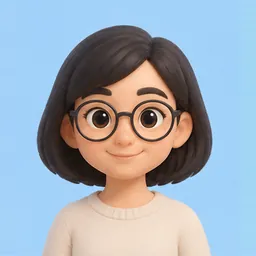
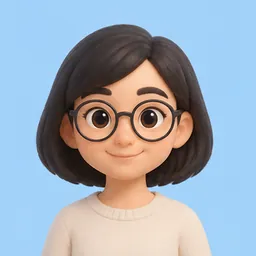
我的 · 更换头像 QA：头像左右补边色跟底色一致（去掉 a7 等边缘色带）；点头像 / 上传时弹窗不再整屏闪
- 头像图：原来左右各补 24px 的底色取自格子最边上一列（跟相邻格子混色），a7 小熊猫左侧有一道灰绿竖带，a2 / a4 / a6 / a8 也偏色；改成取格子内侧底色中位数，并去掉格子边缘 2px 混色后重切 a1~a8.webp（256×256，3.8–5.3 KB）
- Figma 先改：02 切图 slice/avatar/a1~a8（434:446132…434:446160）底色改成同样的颜色，下方色值标注同步（#a1d2f9 / #c1e1b6 / #fcc19b / #d2b7ed / #fde698 / #fd9d94 / #7fcbc6 / #a0b6f4）
- 弹窗：每次整页重渲染都会重播入场动画，选一个头像或上传后弹窗从透明淡入、遮罩重新变暗，手机端底部弹层重新滑上来；改成只在打开时播一次（同工作台抽屉 is-in 的做法）
- 已测：1440 / 375 / 375×667 / 320×568，深浅色，四种语言；选 → 我的、顶部栏、账户弹层同步更新，刷新保留；取消 / 关闭 / 点遮罩 / Esc 都不保存且再开回到当前头像；上传（非正方形居中裁切、GIF 拒绝、超 2 MB 拒绝、上传后可换回默认）；退出登录不显示头像、重新登录恢复、注册新号默认 a1；单文件版和 index.html 无报错；t-cl 无回归

Claude-Session: https://claude.ai/code/session_01DzgfanUjv3RiG8JrrSj5xx

diff --git a/prototype/js/pages.js b/prototype/js/pages.js
@@ -386,7 +386,9 @@
   window.AFTER_RENDER.push(applyAvatar);
   applyAvatar();
   window.avatarOf = avCur; // 其他模块要用当前头像时读它：'a1'~'a8' 或业主上传的 dataURL
-  A.avOpen = () => { S.menu = null; S.pg.avSel = avCur(); if (mob()) S.sheet = 'pg-av'; else S.dialog = 'pg-av'; };
+  A.avOpen = () => { S.menu = null; S.pg.avSel = avCur(); S.pg.avIn = true; if (mob()) S.sheet = 'pg-av'; else S.dialog = 'pg-av'; };
+  // 入场动画只在打开那一下播：选头像 / 上传后整页重渲染，弹窗和遮罩不再从透明重新淡入（否则每点一下全屏闪一次）
+  window.AFTER_RENDER.push(() => { if (S.pg.avIn && document.querySelector('.av-dlg')) S.pg.avIn = false; });
   A.avPick = (k) => { if (AVS.includes(k)) S.pg.avSel = k; };
   A.avUpload = () => {
     window.pickImage({ accept: 'image/png,image/jpeg,image/webp', maxMB: 2 }, (src) => {
@@ -500,8 +502,8 @@
     if (S.dialog === 'pg-del' || S.sheet === 'pg-del') {
       h += wrap('pg-del', `<h3>${t('proj/delete-q')}</h3><p class="muted pg-dp">${t('proj/delete-d')}</p><div class="dialog-foot pg-foot"><button class="btn btn-secondary" data-act="closeAll">${t('confirm/cancel')}</button><button class="btn btn-danger" data-act="pgDelOk">${t('proj/delete')}</button></div>`);
     }
-    if (S.dialog === 'pg-av') h += window.dialog(avBody(), 'av-dlg');
-    if (S.sheet === 'pg-av') h += window.sheet(avBody(), 'av-dlg');
+    if (S.dialog === 'pg-av') h += window.dialog(avBody(), `av-dlg ${S.pg.avIn ? '' : 'is-stay'}`);
+    if (S.sheet === 'pg-av') h += window.sheet(avBody(), `av-dlg ${S.pg.avIn ? '' : 'is-stay'}`);
     if (S.dialog === 'pg-logout' || S.sheet === 'pg-logout') {
       h += wrap('pg-logout', `<h3>${t('account/logout-q')}</h3><div class="dialog-foot pg-foot"><button class="btn btn-secondary" data-act="closeAll">${t('confirm/cancel')}</button><button class="btn btn-danger" data-act="pgLogoutOk">${t('account/logout')}</button></div>`);
     }

diff --git a/prototype/css/pages.css b/prototype/css/pages.css
@@ -197,6 +197,7 @@ button.pg-row:hover, .pg-row.is-open { background: var(--bg-hover); }
 .pg-av-btn:hover::after, .pg-av-btn:focus-visible::after { opacity: 1; }
 .pg-av-edit { position: absolute; right: -2px; bottom: -2px; z-index: 1; width: 24px; height: 24px; border-radius: 50%; display: grid; place-items: center; background: var(--bg-raised); border: var(--stroke-thin) solid var(--border); color: var(--icon); }
 .pg-av-edit svg { width: 14px; height: 14px; }
+.av-dlg.is-stay, .scrim:has(+ .av-dlg.is-stay) { animation: none; } /* 弹窗已开着时重渲染（选头像 / 上传）不重播入场动画，见 pages.js avIn */
 .av-head { margin-bottom: var(--space-16); }
 .av-cur { display: flex; align-items: center; gap: var(--space-16); }
 .av-pv { width: 72px; height: 72px; border-radius: 50%; object-fit: cover; flex: none; background: var(--fill-2); }
